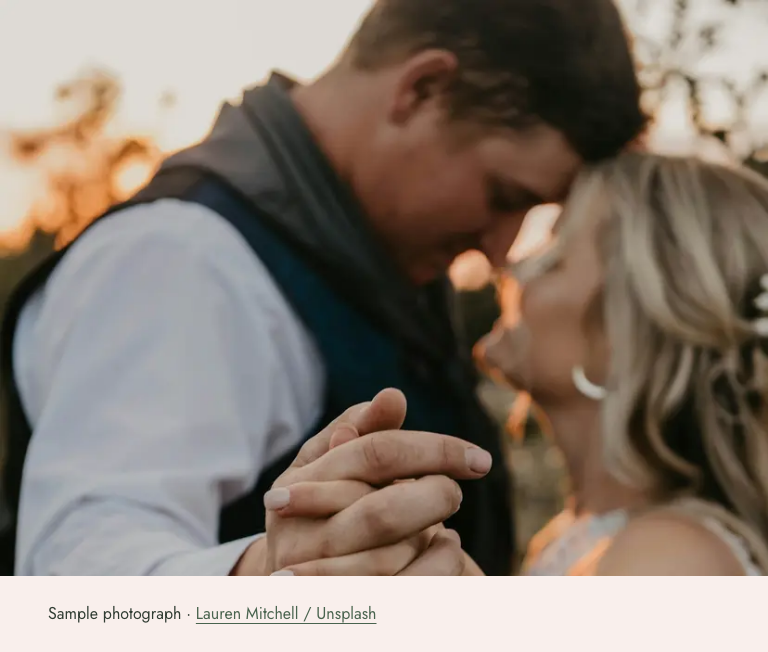
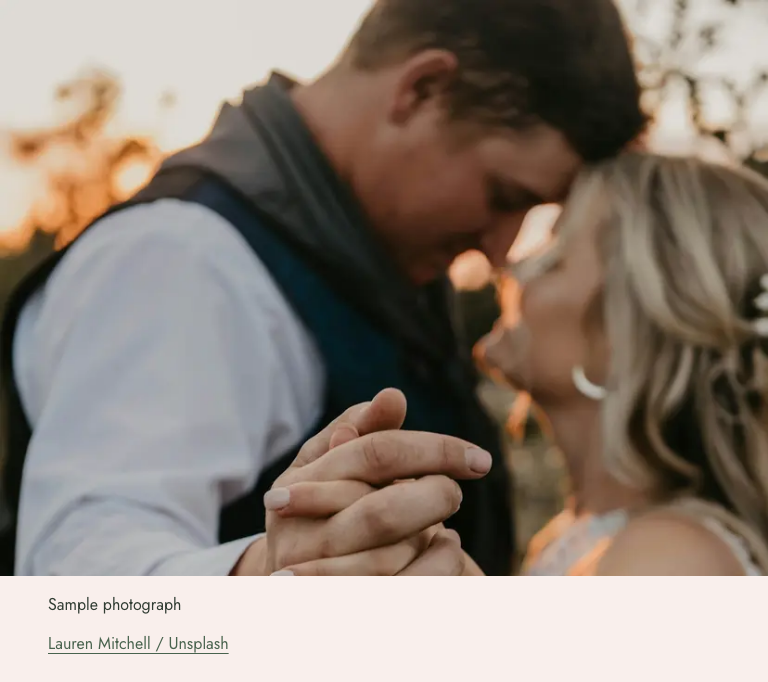
TICKET-038: refresh integrated hero evidence and handoff

diff --git a/docs/handoffs/TICKET-038.md b/docs/handoffs/TICKET-038.md
@@ -1,0 +1,7 @@
+# TICKET-038
+
+2026-11-13 — divine, branch TICKET-038, PR #189.
+
+Integrated develop palette/icon changes from 97e67cd2 and the ordering diagnostic repair. Fixed cold-font movement by stacking the sample credit and attribution link instead of letting a preceding inline label change the link origin. All 12 unchanged cold-font checks pass. Production build and all 13 private-invitation hero checks pass after integration, including four themes, three widths, image delivery, accessibility, keyboard reply focus, and deferred-image reserved geometry. Refreshed screenshots are in docs/reviews/TICKET-038.
+
+Earlier measured mobile Lighthouse: performance90, accessibility100, CLS0; retain performance work in116 and final device/publication gates in201/008. No claim of final real-photo approval. Await final exact-head CI, then merge and complete through CLI.
